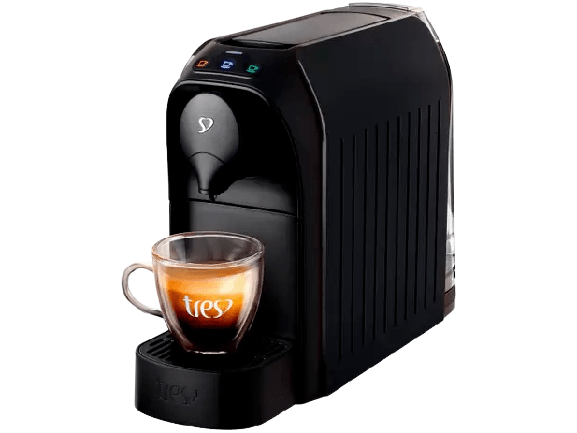
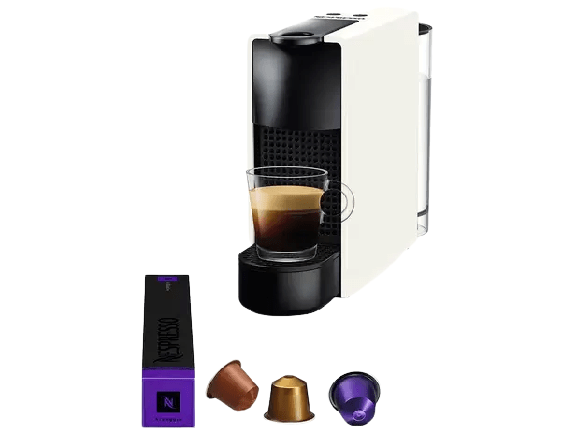
Correção de imagens e links

diff --git a/utilitarios.html b/utilitarios.html
@@ -103,7 +103,7 @@
             </div>
 
             <div class="pro">
-                <a href="https://www.precolandia.com.br/jogo-sobremesa-lisboa-13-pecas-tintinno/p-478679?gclid=CjwKCAjw9qiTBhBbEiwAp-GE0THoWQKmY8ThW4onaC3wWBdxiKP-jGc2EzxxXZOO7770Gn6RlPoMshoCmz4QAvD_BwE" target="blank">
+                <a href="https://www.casasbahia.com.br/conjunto-de-tacas-para-sobremesa-hauskraft-transparente-em-vidro-12-cm-6-pecas/p/11997010" target="blank">
                     <img src="./assets/img/jogo-sobremesa.png" alt="">
                     <div class="des">
                         <h5>Jogo de Sobremesas de Vidro</h5>
@@ -141,7 +141,7 @@
             </div>
 
             <div class="pro">
-                <a href="https://www.oxfordporcelanas.com.br/serena-cream-jantar/p" target="blank">
+                <a href="https://www.amazon.com.br/XICARA-CAFE-PEARL-JG-12PC/dp/B091Z7CTT6/ref=asc_df_B091Z7CTT6/?tag=googleshopp00-20&linkCode=df0&hvadid=379715601072&hvpos=&hvnetw=g&hvrand=5663146029039021680&hvpone=&hvptwo=&hvqmt=&hvdev=c&hvdvcmdl=&hvlocint=&hvlocphy=1001763&hvtargid=pla-1411560124298&psc=1" target="blank">
                     <img src="./assets/img/xicaras.png" alt="">
                     <div class="des">
                         <h5>Jogo Xícaras e Pires De Café</h5>

diff --git a/eletroportateis.html b/eletroportateis.html
@@ -124,7 +124,7 @@
 
         <div class="pro-container">
             <div class="pro">
-                <a href="https://www.magazineluiza.com.br/cafeteira-espresso-tres-3-coracoes-passione-preto/p/023567000/ep/cfex/?&force=12&seller_id=magazineluiza&utm_source=google&utm_medium=&utm_campaign=-ft_pla-nc_coop_tres_coracoes_smart_pla_dia_das_maes_22-oc_venda&utm_content=-un_magalu-ce_b2c-cp_cooperados-bo_none-ts_&utm_term=66606&partner_id=66606" target="blank">
+                <a href="https://www.magazineluiza.com.br/cafeteira-nespresso-essenza-mini-branca/p/231230600/ep/cane/" target="blank">
                     <img src="./assets/img/cafeteira.png" alt="">
                     <div class="des">
                         <h5>Cafeteira de Cápsula</h5>
@@ -133,7 +133,7 @@
             </div>
 
             <div class="pro">
-                <a href="" target="blank">
+                <a href="//www.casasbahia.com.br/Eletroportateis/Mixer/mixer-electrolux-3-em-1-eib10-com-copo-e-batedor-de-claras-400w-preto-55033874.html?IdSku=55033875" target="blank">
                     <img src="./assets/img/mixer.png" alt="">
                     <div class="des">
                         <h5>Mixer</h5>

diff --git a/moveis.html b/moveis.html
@@ -47,19 +47,10 @@
     <main id="main-outros">
         <div class="pro-container">
             <div class="pro">
-                <a href="https://www.magazineluiza.com.br/conjunto-sala-de-jantar-mesa-tampo-mdf-e-vidro-e-4-cadeiras-lottus-shopkasa/p/dg61gdj28a/mo/ms4j/" target="blank">
+                <a href="#">
                   <img src="./assets/img/mesa.png" alt="">
                   <div class="des">
                       <h5>Mesa De Jantar 4 Lugares</h5>
-                  </div>
-                </a>
-            </div>
-
-            <div class="pro">
-                <a href="" target="blank">
-                  <img src="./assets/img/sofa.png" alt="">
-                  <div class="des">
-                      <h5>Sofá Retrátil/Reclinável</h5>
                   </div>
                 </a>
             </div>
